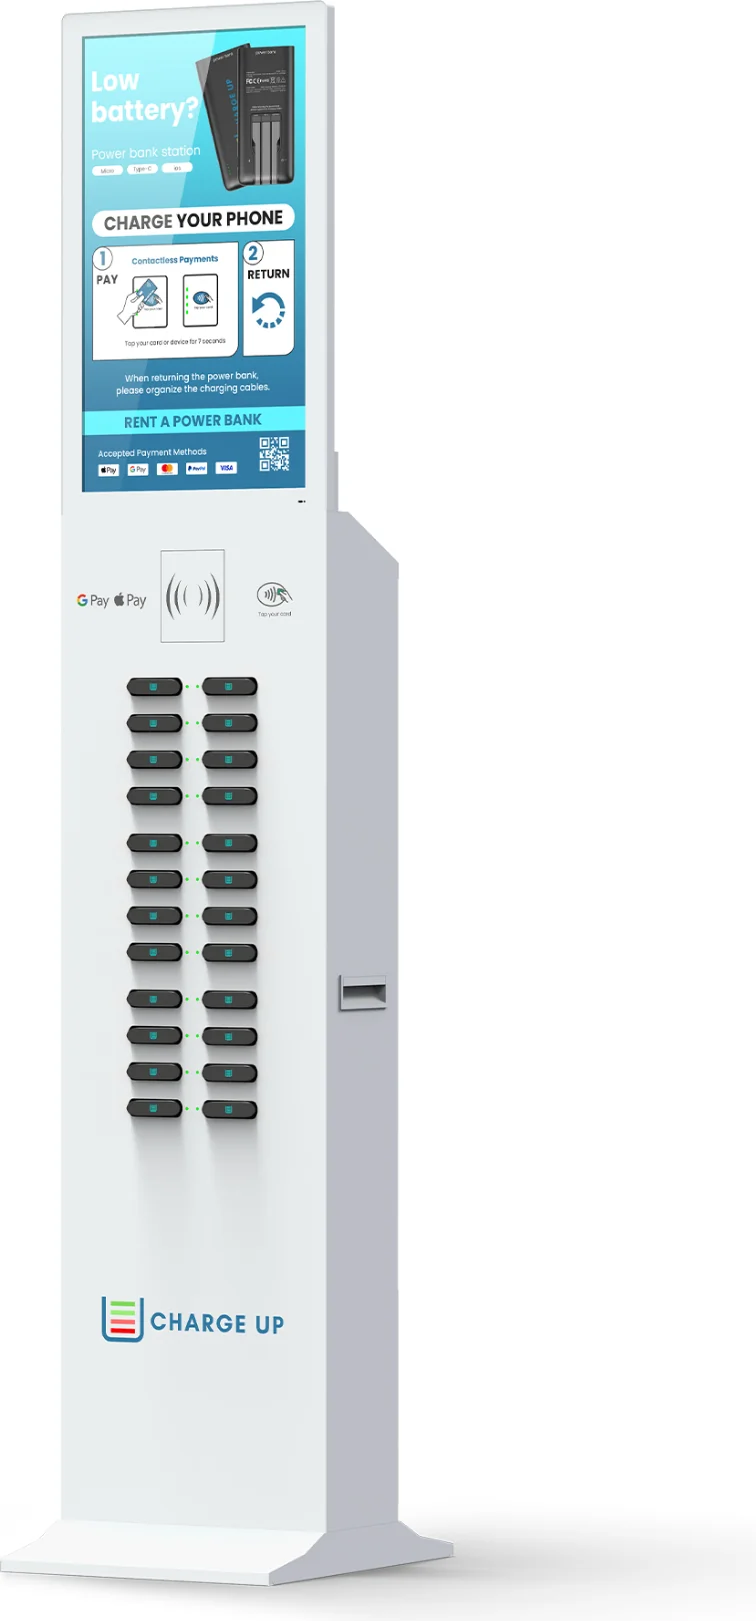
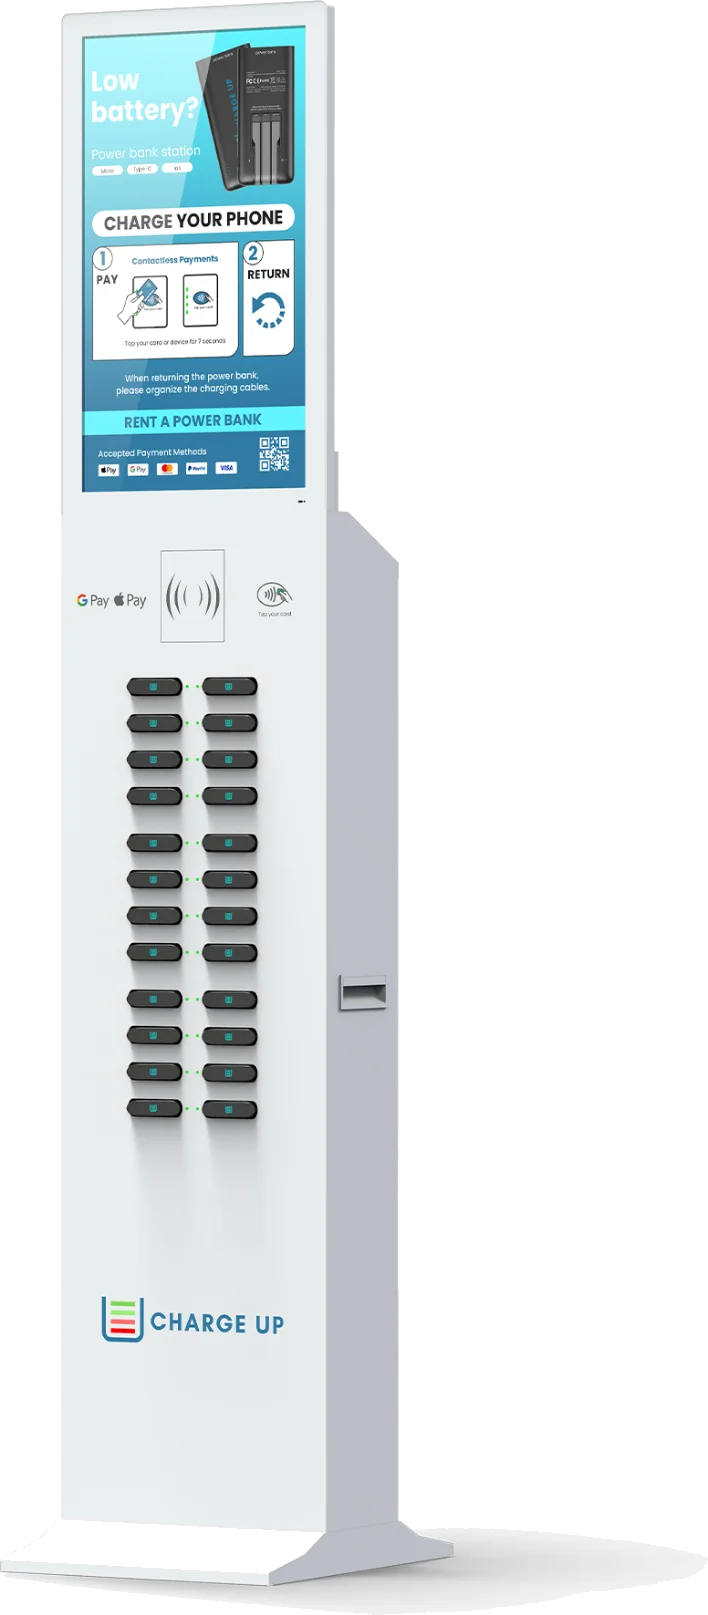
fix(site): transparent kiosk renders, phone grid overflow, larger tabletop stage
- scripts/cutout.py flood-fills the white background out of the supplier renders
  (their alpha channel was fully opaque); images.mjs now trims and converts the
  cutouts, so the kiosks sit on the light stages without a white box
- explicit one-column grid on phones so the Locations heading wraps instead of
  being clipped by the scroll-snap venue row
- tabletop render stage in the venue card is taller with tighter padding

diff --git a/client/src/components/home/Hero.tsx b/client/src/components/home/Hero.tsx
@@ -12,7 +12,7 @@ import kiosk24 from "@assets/web/kiosk-24.webp";
 export default function Hero() {
   return (
     <Section className="pb-12 pt-10 md:pb-16 md:pt-16 lg:pt-20">
-      <div className="grid items-center gap-12 lg:grid-cols-12 lg:gap-10">
+      <div className="grid grid-cols-1 items-center gap-12 lg:grid-cols-12 lg:gap-10">
         <div className="lg:col-span-6">
           <Eyebrow>Phone charging kiosks · Detroit</Eyebrow>
           <h1 className="mt-4 font-display text-4xl font-bold leading-[1.1] tracking-[-0.02em] text-ink md:text-5xl lg:text-6xl">

diff --git a/client/src/components/home/ForBusinesses.tsx b/client/src/components/home/ForBusinesses.tsx
@@ -36,7 +36,7 @@ export default function ForBusinesses() {
       <div className="mt-12 grid gap-6 md:grid-cols-2">
         <FadeUp>
           <Card className="flex h-full flex-col">
-            <div className="flex h-56 items-center justify-center rounded-xl bg-brand-50 p-6">
+            <div className="flex h-64 items-center justify-center rounded-xl bg-brand-50 p-4">
               <img
                 src={kiosk8}
                 alt="U Charge Up tabletop kiosk holding 8 portable chargers"

diff --git a/client/src/components/home/FindAKiosk.tsx b/client/src/components/home/FindAKiosk.tsx
@@ -12,7 +12,7 @@ const VENUE_TYPES = ["Stadiums", "Casinos", "Hospitals", "Restaurants", "Festiva
 export default function FindAKiosk() {
   return (
     <Section id="locations">
-      <div className="grid items-center gap-12 lg:grid-cols-12 lg:gap-10">
+      <div className="grid grid-cols-1 items-center gap-12 lg:grid-cols-12 lg:gap-10">
         <FadeUp className="lg:col-span-5">
           <SectionHeader
             eyebrow="Locations"

diff --git a/client/src/components/home/BuiltInDetroit.tsx b/client/src/components/home/BuiltInDetroit.tsx
@@ -11,7 +11,7 @@ import nvidiaBadge from "@assets/web/badge-nvidia-inception.webp";
 export default function BuiltInDetroit() {
   return (
     <Section id="about">
-      <div className="grid items-center gap-12 lg:grid-cols-12 lg:gap-10">
+      <div className="grid grid-cols-1 items-center gap-12 lg:grid-cols-12 lg:gap-10">
         <FadeUp className="lg:col-span-5">
           <img
             src={autoShowPhoto}

diff --git a/scripts/cutout.py b/scripts/cutout.py
@@ -1,0 +1,48 @@
+#!/usr/bin/env python3
+"""Knock the white background out of the kiosk renders.
+
+The supplier's PNGs carry an alpha channel but every pixel is opaque, so the
+renders sat in a white box on any tinted surface. This flood-fills from the
+image border (near-white only, within a tolerance) and makes that connected
+region transparent; white parts of the kiosk itself stay because they are
+separated from the background by the render's shaded edges.
+
+    python3 scripts/cutout.py
+Writes attached_assets/web/cutout/*.png, which scripts/images.mjs then trims,
+resizes and converts to WebP.
+"""
+from pathlib import Path
+from PIL import Image, ImageDraw
+
+SRC = Path("attached_assets")
+OUT = SRC / "web" / "cutout"
+RENDERS = {
+    "24 Unit UCU_1752157185779.png": "kiosk-24.png",
+    "8 Unit UCU_1752157185780.png": "kiosk-8.png",
+}
+SENTINEL = (255, 0, 255, 255)  # magenta never appears in the renders
+THRESH = 40  # how far from pure white still counts as background
+
+OUT.mkdir(parents=True, exist_ok=True)
+for name, out in RENDERS.items():
+    im = Image.open(SRC / name).convert("RGBA")
+    w, h = im.size
+    # Fill from every border pixel, not just the corners, so no background
+    # pocket that only touches an edge is missed.
+    for x in range(0, w, 8):
+        for y in (0, h - 1):
+            if im.getpixel((x, y))[:3] != SENTINEL[:3]:
+                ImageDraw.floodfill(im, (x, y), SENTINEL, thresh=THRESH)
+    for y in range(0, h, 8):
+        for x in (0, w - 1):
+            if im.getpixel((x, y))[:3] != SENTINEL[:3]:
+                ImageDraw.floodfill(im, (x, y), SENTINEL, thresh=THRESH)
+    px = im.load()
+    cleared = 0
+    for y in range(h):
+        for x in range(w):
+            if px[x, y][:3] == SENTINEL[:3]:
+                px[x, y] = (255, 255, 255, 0)
+                cleared += 1
+    im.save(OUT / out)
+    print(f"{out}: {w}x{h}, {cleared / (w * h):.0%} background cleared")
